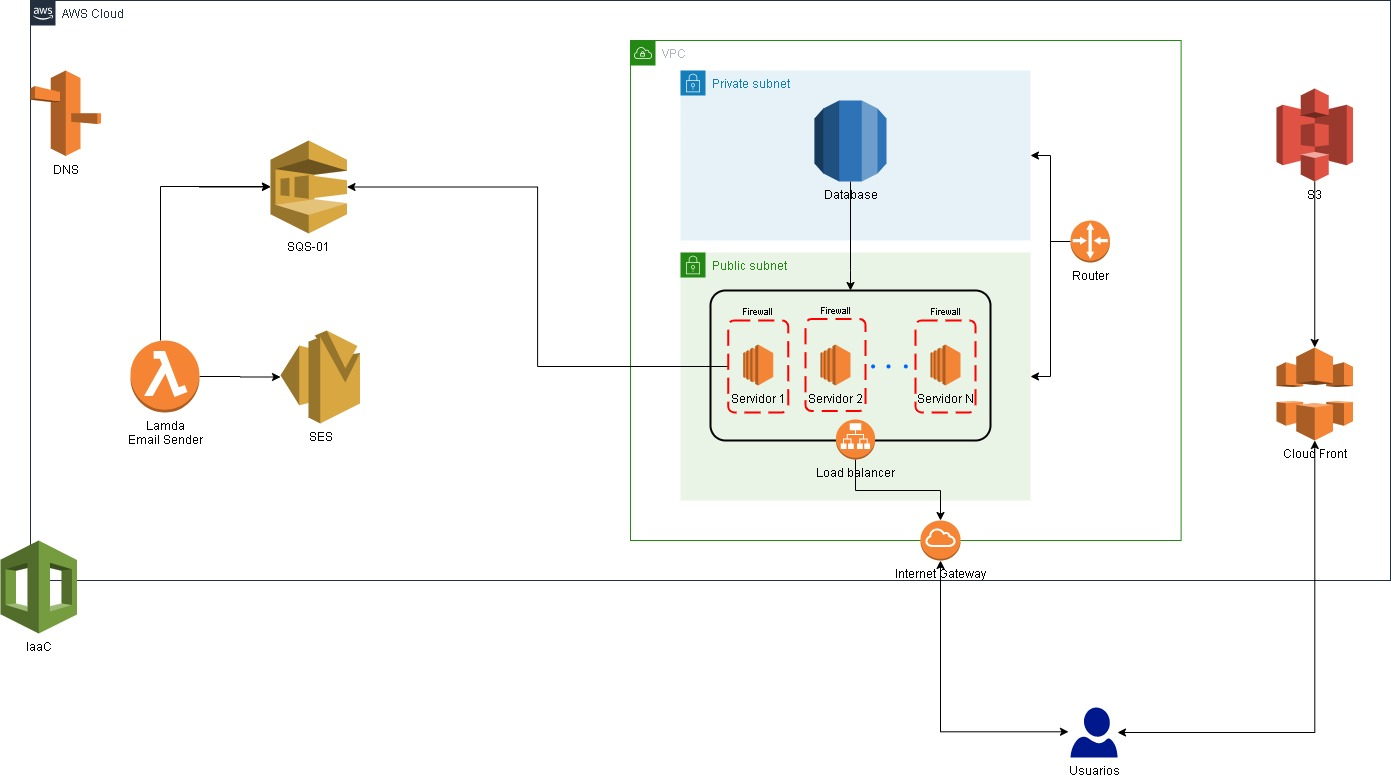
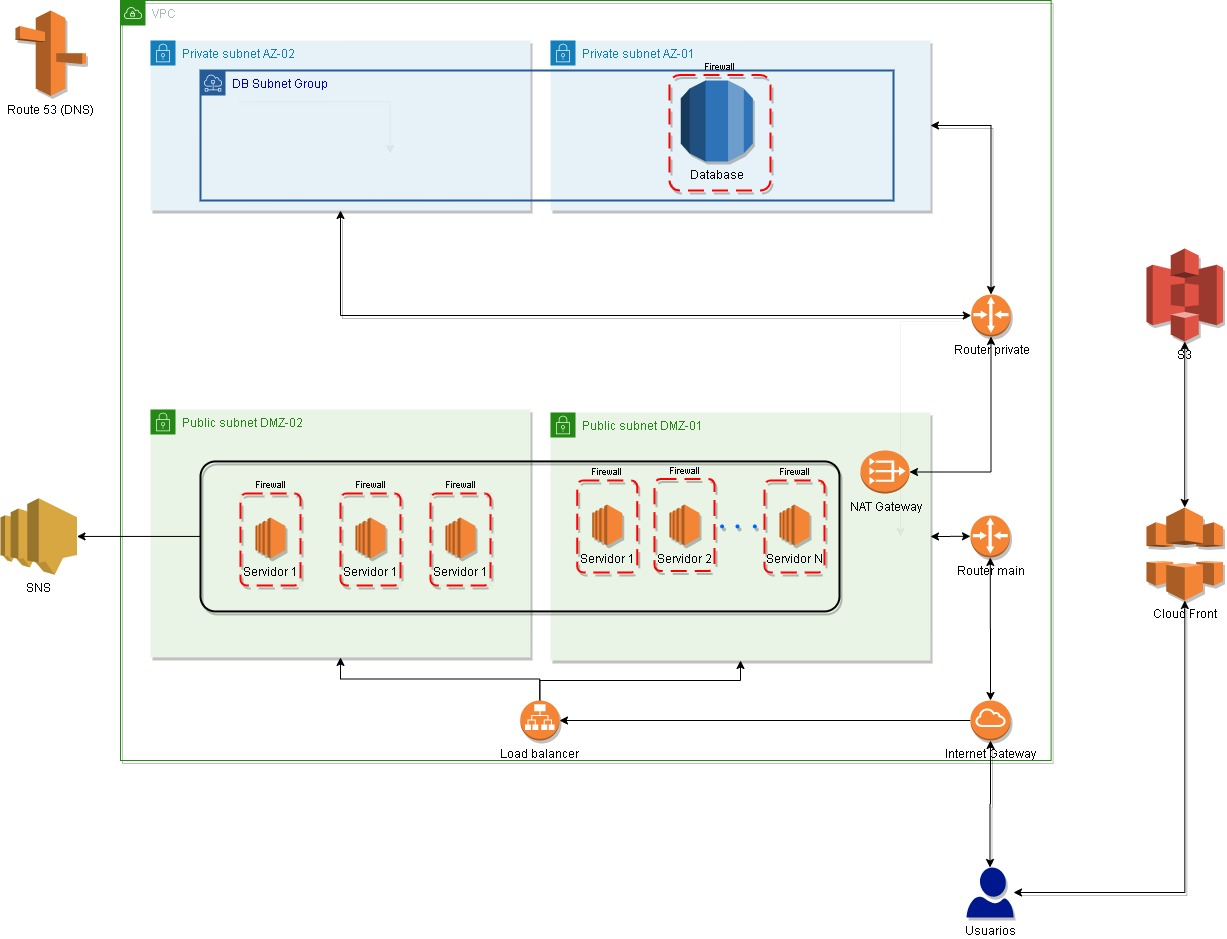
Alcance de proyecto, nueva arquitectura

diff --git a/README.md b/README.md
@@ -24,12 +24,20 @@ No es necesario, pero sí recomendable tener **conocimientos previos de programa
 
 ## Proyecto
 
-Subir una aplicación web con Amazon Web Services, que se estará dividido en FrontEnd y BackEnd.
+El proyecto contempla el uso de varios servicios de AWS con el fin de adquirir la visibilidad como todos ellos operan en conjunto.
+Se simulará un formulario de contacto de clientes o captador de clientes (leads), al momento de que el usuario final llene los campos y de click en el botón de envío se enviarán los datos a un balanceador de carga, el balanceador de carga con su certificado SSL reenviará los datos a alguna de las intancias que estén ejecutando el código que se encargará de tomar la información y guardarla en base de datos además de despachar la información necesaria para dar aviso a un número celular en cuanto un nuevo usuario deje sus datos de contacto.
 
-El **FrontEnd** reside en S3 con Cloud CDN y se conectará con el **BackEnd** por medio de un balanceador de carga y  el BackEnd tendrá la capacidad de escalar en horizontal si la carga de trabajo lo requiere y a su vez se conecta a una base de datos RDS en una red privada (dicha base de datos se diseña con un RTO y RPO para hacer los backups).
+En general consistirá en las siguientes partes:
 
-El FrontEnd y el BackEnd en algún momento tendrán que realizar alguna tarea asíncrona, por lo cual es necesario que esa tarea sea hecha en segundo plano (Ej: un reporte), está tarea se almacena en un SQS y eventualmente esa información sea consumida por una Lambda que será quien haga esa tarea en segundo plano enviando el resultado por email. 
+- Una interfáz hosteada en S3 con HTML,CCS y Javascript, esta será la parte de cara al usuario final.
+- Un balanceador de carga con su certificado SSL para que la información viaje segura.
+- Un par de instancias EC2 de AWS, el código se ejecutará en contenedores Docker.
+- Se tendrá un servicio SMS listo para el envío de mensajes al tener un nuevo cliente.
 
-Toda esta infraestructura debe tener un certificado de seguridad para operar, por lo que sería necesario configurar **Route53** para que un dominio sea resuelto.Todo el código para probar el FrontEnd y BackEnd lo podemos bajar en algún proyecto ya hecho, así no sería necesario programar una aplicación desde 0.
+Se recomienda encarecidamente que todo el proyecto sea generado en una misma unidad regional, en este curso se estará usando la región `us-east-1`.
+
+
+
+Toda esta infraestructura debe tener un certificado de seguridad para operar, será usado AWS Certificate Manager para generarlo, por lo que sería necesario configurar **Route53** para que un dominio sea resuelto. 
 
 <img src="assets/arquitectura-Infra.jpg">

diff --git a/Sesión 01/Postwork.md b/Sesión 01/Postwork.md
@@ -1,0 +1,25 @@
+## Postwork 
+
+# 1. Objetivo 🎯
+
+- Expandir los conceptos vistos en la sesion de trabajo
+
+## 2. Requisitos 📋
+
+* Navegador web e internet
+
+# 3. Desarrollo 📑
+
+### Para el planteamiento del proyecto conviene conocer:
+
+- [Zonas desmilitarizadas](es.wikipedia.org/wiki/Zona_desmilitarizada_(informática))
+
+- [Lista de puertos mas usados](https://docs.opencloud.cl/tutoriales/servidores/lista-de-puertos-mas-comunmente-utilizados.html)
+
+- [¿Cómo funciona el protocolo DNS?](https://www.verisign.com/es_LA/website-presence/online/how-dns-works/index.xhtml)
+
+- [Balanceadores de carga](https://www.nginx.com/resources/glossary/load-balancing/)
+
+- [¿Cómo medir los tiempos para los backups?](https://www.itsafer.com/que-es-el-rto-y-el-rpo-en-un-plan-de-recuperacion-de-desastres-drp/)
+
+
